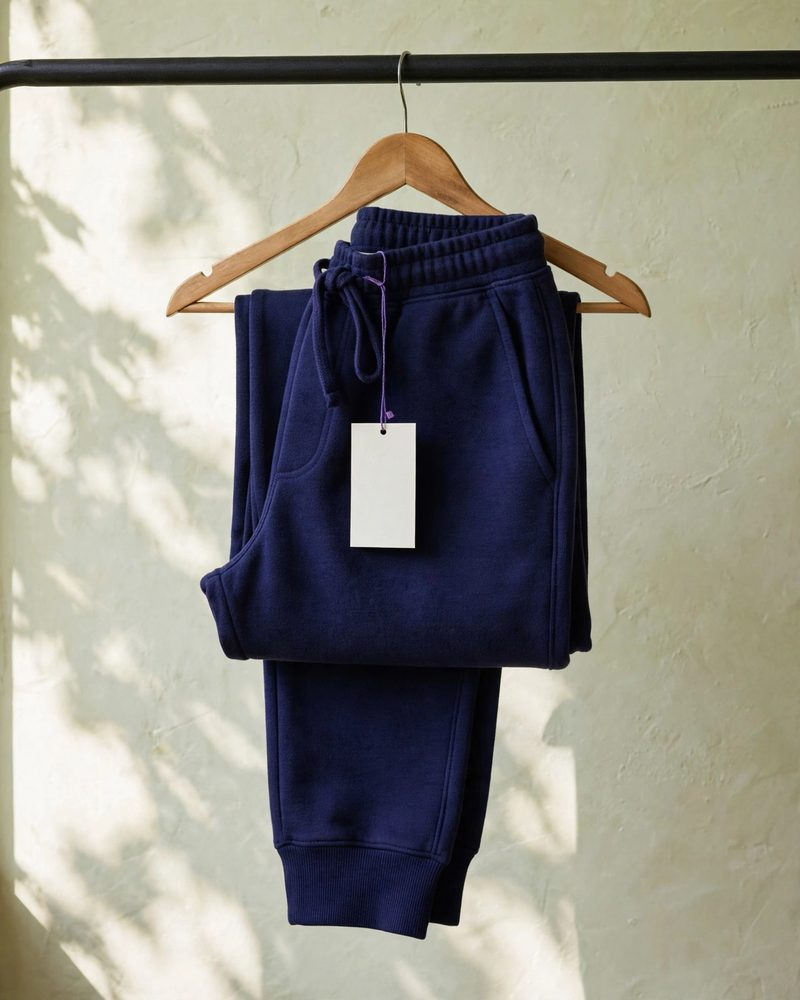
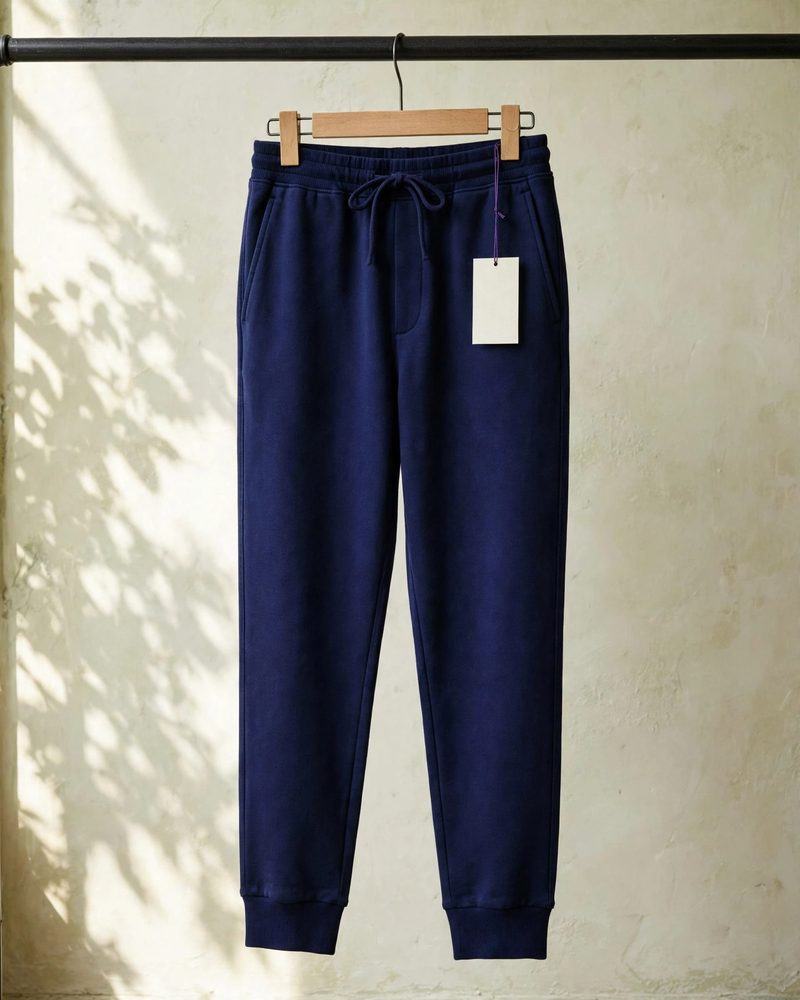
The companion hangs by its mill ring from a thread down from the top of the screen wherever it isn't walking the story road, swaying a little; on the road it lets go and walks the stitched path. A footer switch turns it off (remembered), with an Ask the guide button in its place in the case files; i

diff --git a/web/src/Journey.tsx b/web/src/Journey.tsx
@@ -160,7 +160,7 @@ export function Story() {
         </article>
         <blockquote className="story-quote">
           <p>“The gap is not necessarily a lack of documentation; it is the difficulty of connecting the documents with real operating conditions.”</p>
-          <footer><b>Rajib Singha</b> · Vice President, Human Resources &amp; Administration, Pearl Global Industries Ltd<br /><small>Formerly Group General Manager, HR &amp; Compliance, Sterling Group</small></footer>
+          <footer><b>Rajib Singha</b> · Vice President, Human Resources &amp; Administration, Pearl Global Industries Ltd</footer>
         </blockquote>
         <article className="story-stop stop-three">
           <div className="connection-art" aria-hidden="true"><span className="art-label">THE CLAIM</span><span className="art-paper">“All treated.”</span>
@@ -176,7 +176,7 @@ export function Story() {
   )
 }
 
-export function Footer({ motion, setMotion, replay }: { motion: boolean; setMotion: (m: boolean) => void; replay: () => void }) {
+export function Footer({ motion, setMotion, replay, companion, setCompanion }: { motion: boolean; setMotion: (m: boolean) => void; replay: () => void; companion: boolean; setCompanion: (c: boolean) => void }) {
   return (
     <footer>
       <a className="wordmark" href="#/">〰 tellwater</a>
@@ -185,6 +185,7 @@ export function Footer({ motion, setMotion, replay }: { motion: boolean; setMoti
         <span>PROTOTYPE · SIMULATED RECORDS · REAL MUSE SPARK INVESTIGATIONS</span>
         <button onClick={replay}>Replay my arrival ↻</button>
         <button aria-pressed={motion} onClick={() => setMotion(!motion)}>{motion ? 'Motion on' : 'Motion off'}</button>
+        <button aria-pressed={companion} onClick={() => setCompanion(!companion)}>{companion ? 'Companion on' : 'Companion off'}</button>
       </div>
     </footer>
   )
@@ -200,8 +201,9 @@ const rectOf = (sel: string) => document.querySelector(sel)?.getBoundingClientRe
  * The one companion, and the way into the guide. Docks in the hero,
  * then walks the stitched route through the origin story as the page scrolls.
  */
-export function Companion({ hidden, motion, onClick }: { hidden: boolean; motion: boolean; onClick: () => void }) {
+export function Companion({ hidden, motion, onClick, inCase }: { hidden: boolean; motion: boolean; onClick: () => void; inCase: boolean }) {
   const ref = useRef<HTMLButtonElement>(null)
+  const thread = useRef<SVGPathElement>(null)  // the thread it hangs from, top of the screen to its ring
   const [cloth, setCloth] = useState<Cloth>('g1')  // acid cloth while it walks the purple story
   const [walking, setWalking] = useState(false)
   const [caseMood, setCaseMood] = useState<Mood | null>(null)
@@ -224,6 +226,7 @@ export function Companion({ hidden, motion, onClick }: { hidden: boolean; motion
     const setFriend = (x: number, y: number, m: string) => {
       if (m !== mode) {
         f.classList.toggle('road-mode', m === 'road'); f.classList.toggle('dock-mode', m === 'evidence'); setCloth(m === 'road' ? 'g2' : 'g1')
+        f.classList.toggle('hanging', m !== 'road'); thread.current?.parentElement?.classList.toggle('let-go', m === 'road')
         f.classList.add('traveling'); clearTimeout(travelTimer); travelTimer = window.setTimeout(() => f.classList.remove('traveling'), 650)
         mode = m
       } else if (m === 'road' && Math.abs(y - lastY) > 70) {  // cleared something on the road: hop across it
@@ -287,12 +290,24 @@ export function Companion({ hidden, motion, onClick }: { hidden: boolean; motion
       if (!frame) frame = requestAnimationFrame(() => { position(); frame = 0 })
       if (mode === 'road' && motion) { setWalking(true); clearTimeout(walkTimer); walkTimer = window.setTimeout(() => setWalking(false), 450) }
     }
+    // off the road it hangs by its mill ring from a thread down from the top of the screen; the thread follows it every frame
+    let tie = 0
+    const tieThread = () => {
+      const t = thread.current
+      if (t && mode !== 'road') {
+        const r = f.getBoundingClientRect(), side = Math.min(r.width, r.height)
+        const x = r.left + (r.width - side) / 2 + (112 / 512) * side, y = r.top + (r.height - side) / 2 + (30 / 512) * side
+        t.setAttribute('d', `M${x + 10} 0Q${x - 6} ${y * 0.55} ${x} ${y}`)
+      }
+      tie = requestAnimationFrame(tieThread)
+    }
+    tieThread()
     const onResize = () => { setupRoad(); position() }
     setupRoad(); position()
     const settle = window.setInterval(position, 500) // content above (the case file) loads after mount
     addEventListener('scroll', onScroll, { passive: true }); addEventListener('resize', onResize)
-    return () => { removeEventListener('scroll', onScroll); removeEventListener('resize', onResize); clearInterval(settle); cancelAnimationFrame(frame) }
-  }, [motion])
+    return () => { removeEventListener('scroll', onScroll); removeEventListener('resize', onResize); clearInterval(settle); cancelAnimationFrame(frame); cancelAnimationFrame(tie) }
+  }, [motion, hidden])
   // until the guide has been opened once, a bubble says what the companion is for
   const [introduce, setIntroduce] = useState(() => { try { return !localStorage.getItem('tw:guide-opened') } catch { return true } })
   useEffect(() => { const t = setTimeout(() => setIntroduce(false), 10_000); return () => clearTimeout(t) }, [])  // it doesn't sit over the page for long
@@ -300,9 +315,12 @@ export function Companion({ hidden, motion, onClick }: { hidden: boolean; motion
   const mood: Mood = walking ? 'walk' : guideBusy ? 'reading' : roadMood ?? caseMood ?? 'calm'
   const open = () => { setIntroduce(false); try { localStorage.setItem('tw:guide-opened', '1') } catch { /* private window */ } onClick() }
   return (
-    <button ref={ref} className={`companion${introduce ? ' introduce' : ''}`} aria-label="Ask the guide about the evidence" onClick={open}>
-      <img src={art(cloth, mood, motion)} alt="" draggable={false} />
-      <span className="friend-tooltip">Ask me about this case. I explain the evidence.</span>
-    </button>
+    <>
+      <svg className="companion-thread" aria-hidden="true"><path ref={thread} /></svg>
+      <button ref={ref} className={`companion${introduce && inCase ? ' introduce' : ''}`} aria-label="Ask the guide about the evidence" onClick={open}>
+        <img src={art(cloth, mood, motion)} alt="" draggable={false} />
+        <span className="friend-tooltip">Ask me about this case. I explain the evidence.</span>
+      </button>
+    </>
   )
 }

diff --git a/web/src/App.tsx b/web/src/App.tsx
@@ -26,6 +26,9 @@ export function App() {
   const hash = useHash()
   const [motion, setMotion] = useState(prefersMotion)
   const [replay, setReplay] = useState(0)
+  // the companion can be switched off from the footer; the choice is remembered
+  const [companion, setCompanionState] = useState(() => { try { return localStorage.getItem('tw:companion') !== 'off' } catch { return true } })
+  const setCompanion = (on: boolean) => { setCompanionState(on); try { localStorage.setItem('tw:companion', on ? 'on' : 'off') } catch { /* private window */ } }
   const { curtain, run } = useCurtain(motion)
   const [, caseKey, bangla] = (hash.match(/^#\/case\/([ABC])(\/bn)?$/) ?? []) as [string, CaseKey | undefined, string | undefined]
   const [, passport, scannedGtin] = (hash.match(/^#\/passport\/([ABC])(?:\/(\d{14}))?$/) ?? []) as [string, CaseKey | undefined, string | undefined]
@@ -70,9 +73,10 @@ export function App() {
             <Story />
           </>
         )}
-        <Footer motion={motion} setMotion={setMotion} replay={() => { location.hash = '#/'; setReplay((r) => r + 1) }} />
+        <Footer motion={motion} setMotion={setMotion} replay={() => { location.hash = '#/'; setReplay((r) => r + 1) }} companion={companion} setCompanion={setCompanion} />
       </main>
-      {(home || caseKey) && <Companion hidden={false} motion={motion} onClick={ask} />}
+      {(home || caseKey) && <Companion hidden={!companion} motion={motion} onClick={ask} inCase={!!caseKey} />}
+      {caseKey && !companion && <button className="guide-pill" onClick={ask}>Ask the guide ↗</button>}
     </>
   )
 }

diff --git a/web/src/styles/companion.css b/web/src/styles/companion.css
@@ -108,3 +108,13 @@
   .stop-one .story-text, .stop-three .story-text { padding-left: 8% }
   .stop-two .photo-frame { margin-left: 6% }
 }
+
+/* hanging by its mill ring from a thread down from the top of the screen (off the story road) */
+.companion-thread { position: fixed; inset: 0; width: 100%; height: 100%; pointer-events: none; z-index: 8; overflow: visible; transition: opacity .35s }
+.companion-thread path { fill: none; stroke: var(--purple); stroke-width: 2; stroke-linecap: round }
+.companion-thread.let-go { opacity: 0 }
+.arriving .companion-thread { opacity: 0 }
+.companion.hanging > img { transform-origin: 22% 13%; animation: hang-sway 5s ease-in-out infinite }
+@keyframes hang-sway { 0%, 100% { transform: rotate(-2deg) } 50% { transform: rotate(2.5deg) } }
+.reduced .companion.hanging > img { animation: none }
+.guide-pill { position: fixed; right: max(20px, env(safe-area-inset-right, 0px)); bottom: max(20px, env(safe-area-inset-bottom, 0px)); z-index: 9; background: var(--ink); color: #fff; font-size: 12px; font-weight: 600; padding: 11px 16px; border-radius: 999px; box-shadow: 0 6px 16px #17173530 }
